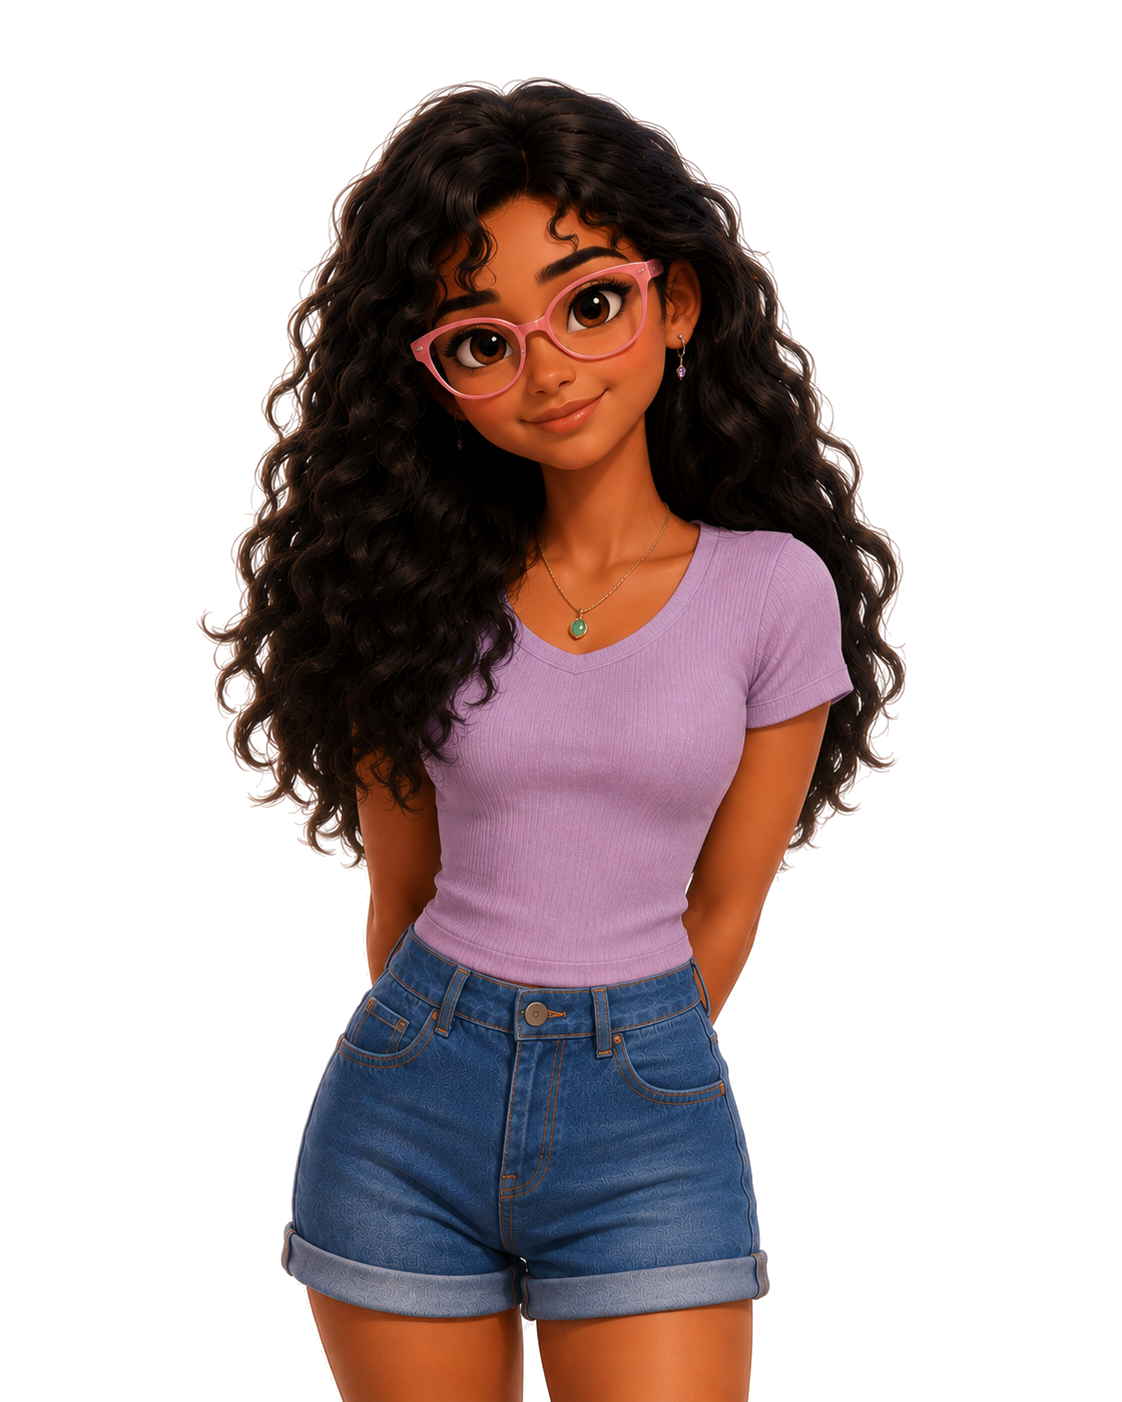
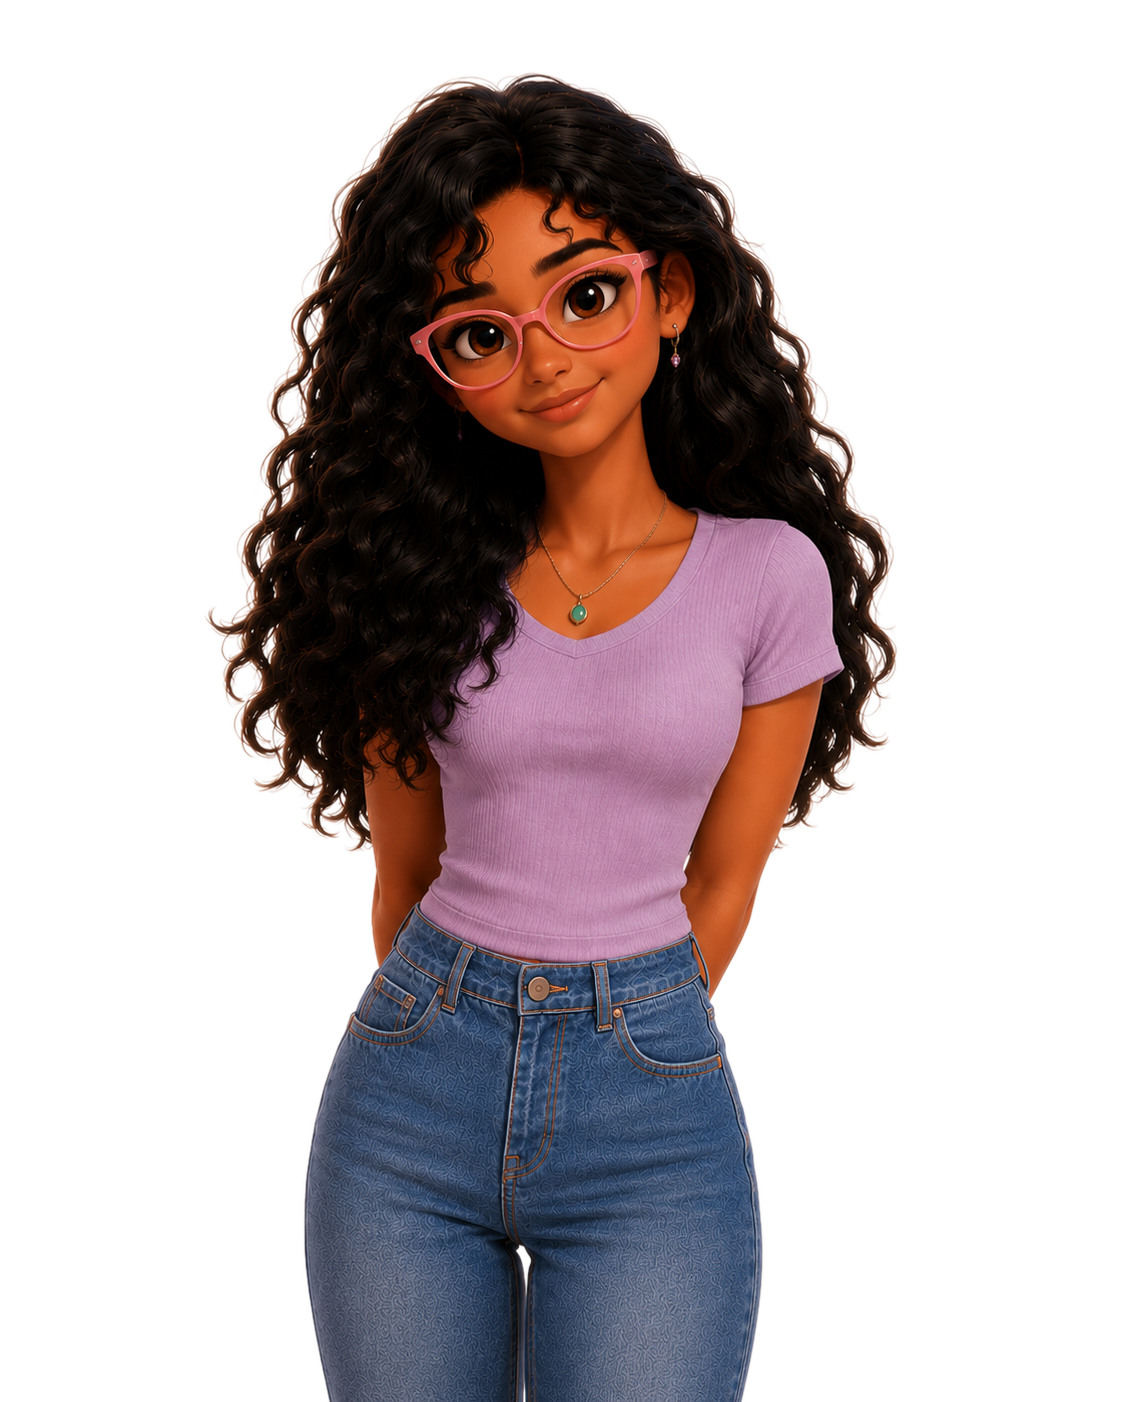
updated some files

diff --git a/style.css b/style.css
@@ -941,7 +941,7 @@ body{font-family:'Inter',sans-serif;background:#050505;color:#f0f0f0;line-height
 ===================== */
 .contact-grid{
   display:grid;grid-template-columns:1fr 1fr;
-  gap:5rem;align-items:start;margin-top:2rem;
+  gap:5rem;align-items:stretch;margin-top:2rem;
 }
 .contact-title{
   font-family:var(--syne);font-size:clamp(1.6rem,2.5vw,2rem);
@@ -979,6 +979,7 @@ body{font-family:'Inter',sans-serif;background:#050505;color:#f0f0f0;line-height
 .form-card{
   background:var(--card);border:1px solid var(--border);
   border-radius:var(--radius-lg);padding:2rem;
+  display:flex;flex-direction:column;
 }
 .f-row{margin-bottom:1.2rem}
 .f-label{
@@ -993,6 +994,19 @@ body{font-family:'Inter',sans-serif;background:#050505;color:#f0f0f0;line-height
 }
 .f-input:focus{border-color:var(--pink)}
 .f-input::placeholder{color:var(--text3)}
+.f-row:has(#fmsg){
+  flex:1;
+  display:flex;
+  flex-direction:column;
+}
+.f-row:has(#fmsg) .f-input{
+  flex:1;
+  resize:none;
+  scrollbar-width:none; /* Firefox */
+}
+.f-row:has(#fmsg) .f-input::-webkit-scrollbar{
+  display:none; /* Chrome, Safari, Edge */
+}
 .f-btn{
   width:100%;background:var(--pink);color:#fff;border:none;
   border-radius:var(--radius);padding:.7rem;
